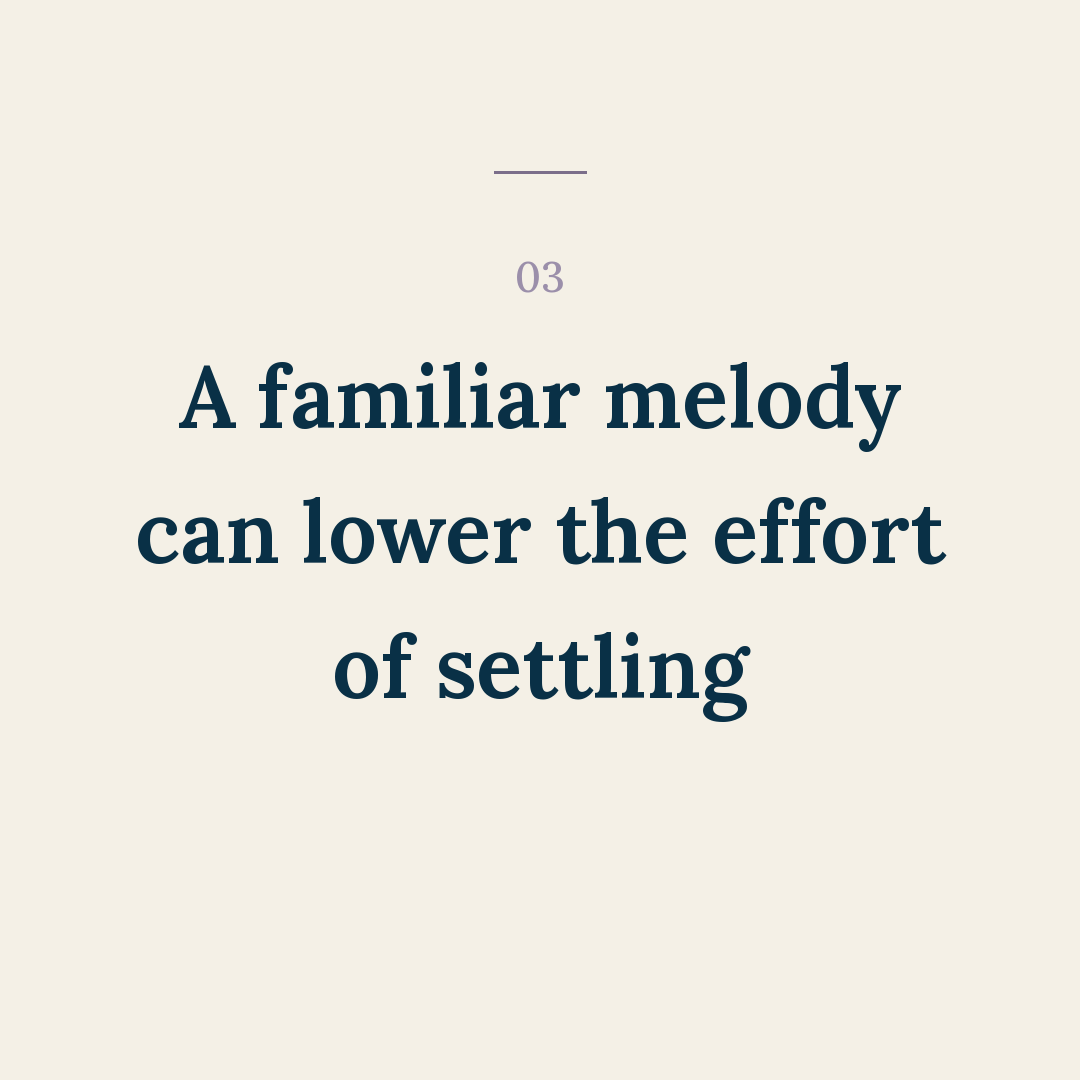
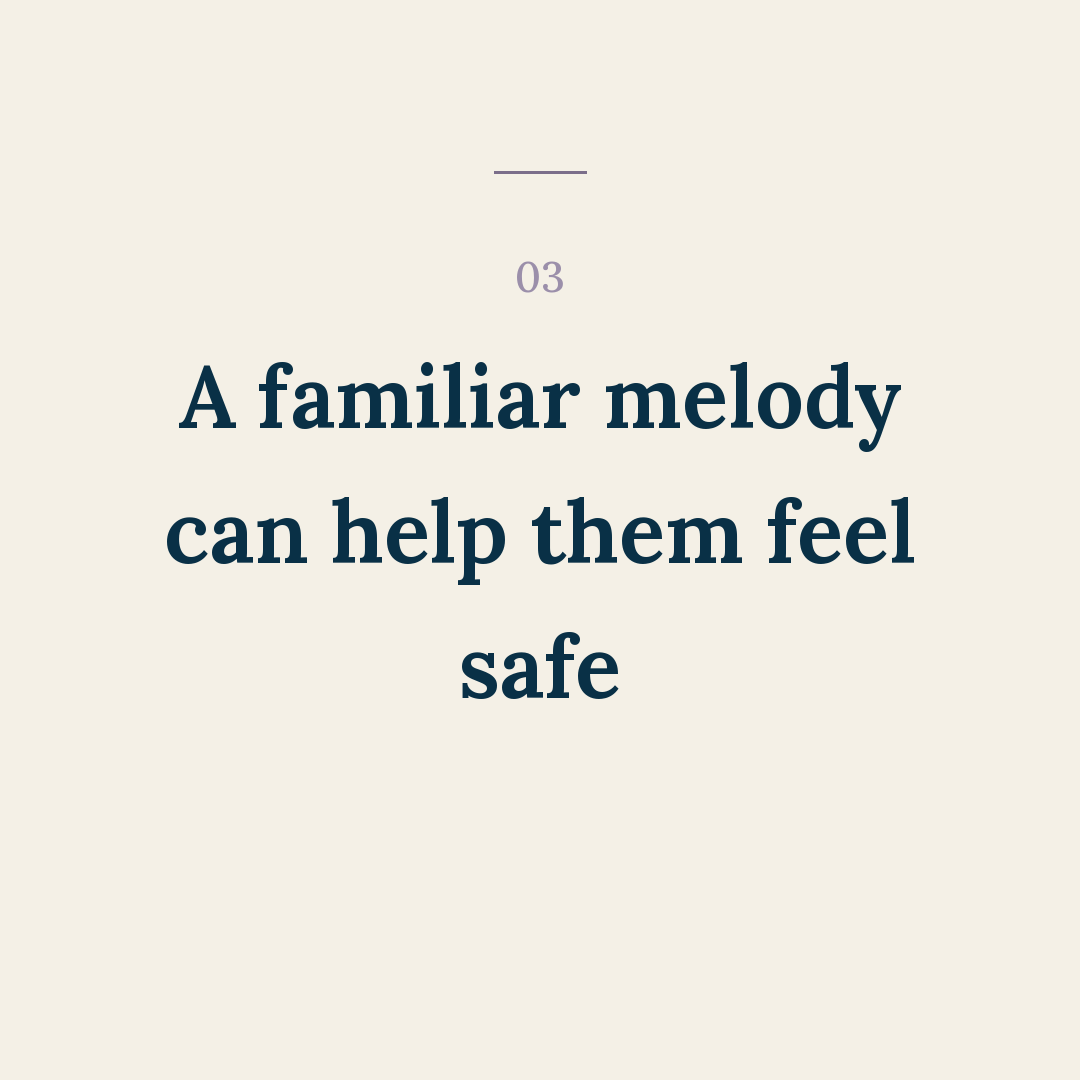
Add 41-science-of-music-and-sleep (41 - Science Of Music And Sleep)

Changed region(s): [[0.1222, 0.4583, 0.8861, 0.55], [0.3056, 0.5806, 0.7028, 0.6722]]

diff --git a/posts/41-science-of-music-and-sleep/slides.md b/posts/41-science-of-music-and-sleep/slides.md
@@ -1,9 +1,7 @@
 # 41 - Science Of Music And Sleep
 
 Format: carousel · bg cream · lane Lullaby-subject · CTA Website · hook #29 [A physiological]
-
-## Cover eyebrow
-It isn't only a soothing habit.
+Revised 2026-08-09 from Ben's review workbook (post-review-2026-08-10.numbers).
 
 ## Cover
 The science of why music can help your newborn fall asleep:
@@ -11,7 +9,7 @@ The science of why music can help your newborn fall asleep:
 ## Items
 01  A slow, steady rhythm can guide their breathing down with it
 02  Repetition may tell their nervous system what's coming next
-03  A familiar melody can lower the effort of settling
+03  A familiar melody can help them feel safe
 04  Singing can calm you too — and they read your body
 
 ## Closer (website CTA — LOCKED card)
